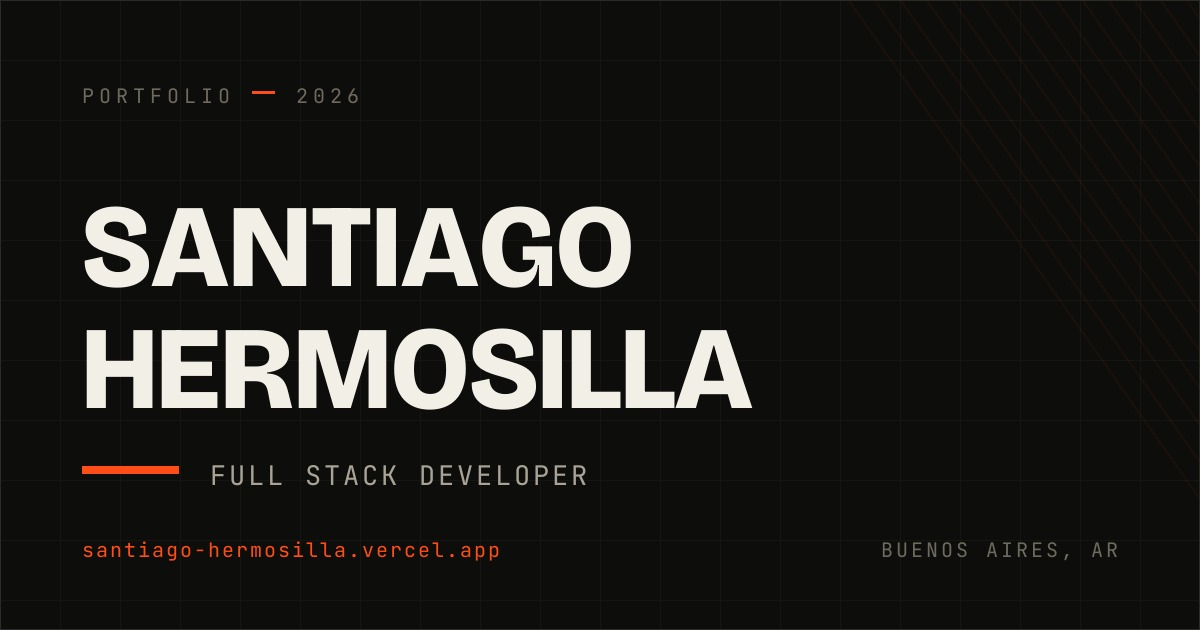
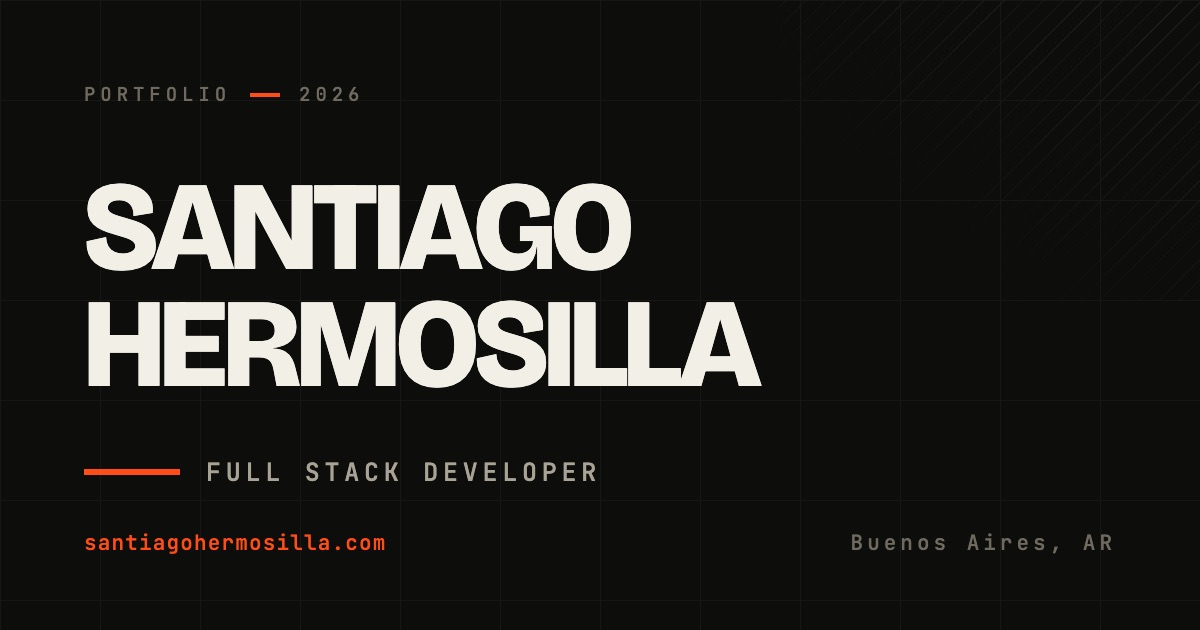
Actualizar el dominio a santiagohermosilla.com
La imagen de portada tenía el dominio viejo quemado abajo a la izquierda:
se rehizo con el mismo diseño y el nuevo. Las cinco meta de Open Graph y
Twitter también apuntaban a la URL de Vercel.

diff --git a/index.html b/index.html
@@ -5,18 +5,18 @@
 <meta name="viewport" content="width=device-width, initial-scale=1.0">
 <title>Santiago Hermosilla — Full Stack Developer</title>
 <meta name="description" content="Portafolio de Santiago Hermosilla, Full Stack Developer de Buenos Aires, Argentina.">
-<link rel="canonical" href="https://santiago-hermosilla.vercel.app/">
+<link rel="canonical" href="https://santiagohermosilla.com/">
 <meta name="theme-color" content="#0D0D0B">
 
 <!-- ══════════ PORTADA AL COMPARTIR (Open Graph / Twitter) ══════════ -->
 <meta property="og:type" content="website">
 <meta property="og:site_name" content="Santiago Hermosilla">
 <meta property="og:locale" content="es_AR">
-<meta property="og:url" content="https://santiago-hermosilla.vercel.app/">
+<meta property="og:url" content="https://santiagohermosilla.com/">
 <meta property="og:title" content="Santiago Hermosilla — Full Stack Developer">
 <meta property="og:description" content="Portafolio de Santiago Hermosilla, Full Stack Developer de Buenos Aires, Argentina.">
-<meta property="og:image" content="https://santiago-hermosilla.vercel.app/images/og.jpg">
-<meta property="og:image:secure_url" content="https://santiago-hermosilla.vercel.app/images/og.jpg">
+<meta property="og:image" content="https://santiagohermosilla.com/images/og.jpg">
+<meta property="og:image:secure_url" content="https://santiagohermosilla.com/images/og.jpg">
 <meta property="og:image:type" content="image/jpeg">
 <meta property="og:image:width" content="1200">
 <meta property="og:image:height" content="630">
@@ -25,7 +25,7 @@
 <meta name="twitter:card" content="summary_large_image">
 <meta name="twitter:title" content="Santiago Hermosilla — Full Stack Developer">
 <meta name="twitter:description" content="Portafolio de Santiago Hermosilla, Full Stack Developer de Buenos Aires, Argentina.">
-<meta name="twitter:image" content="https://santiago-hermosilla.vercel.app/images/og.jpg">
+<meta name="twitter:image" content="https://santiagohermosilla.com/images/og.jpg">
 <meta name="twitter:image:alt" content="Santiago Hermosilla — Full Stack Developer, Buenos Aires">
 
 <link rel="preconnect" href="https://fonts.googleapis.com">
